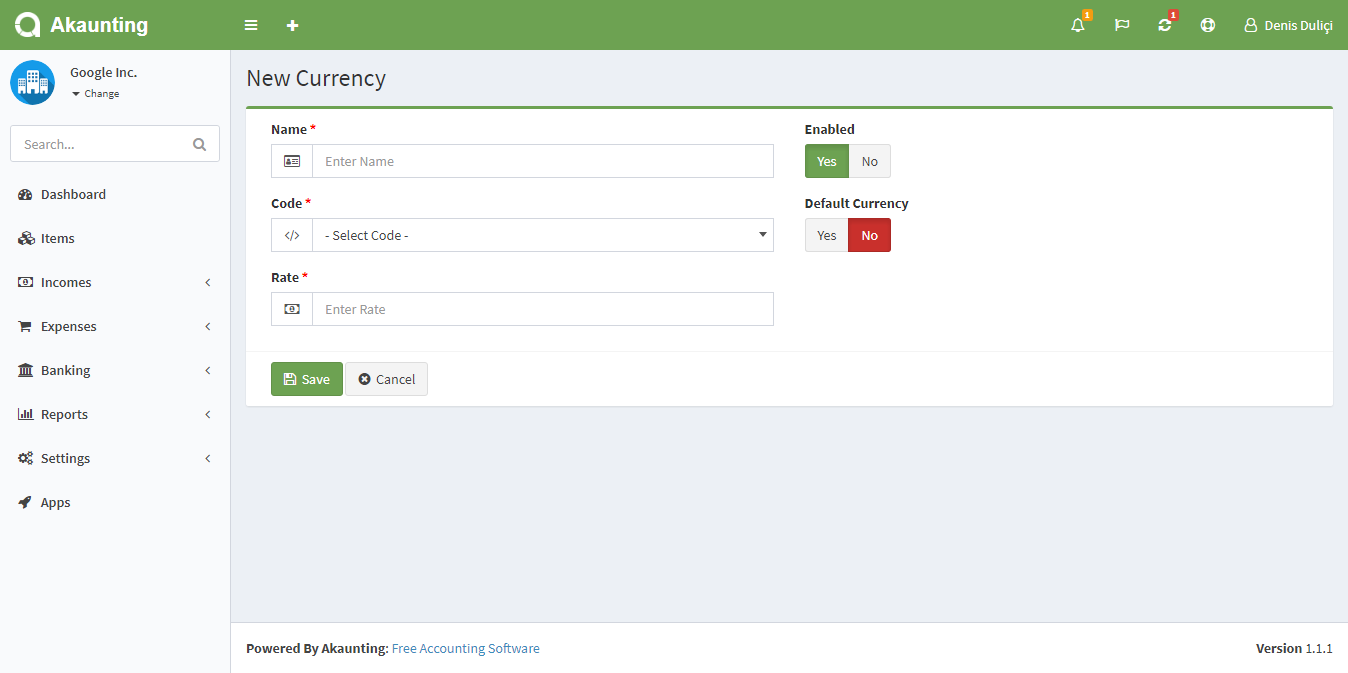
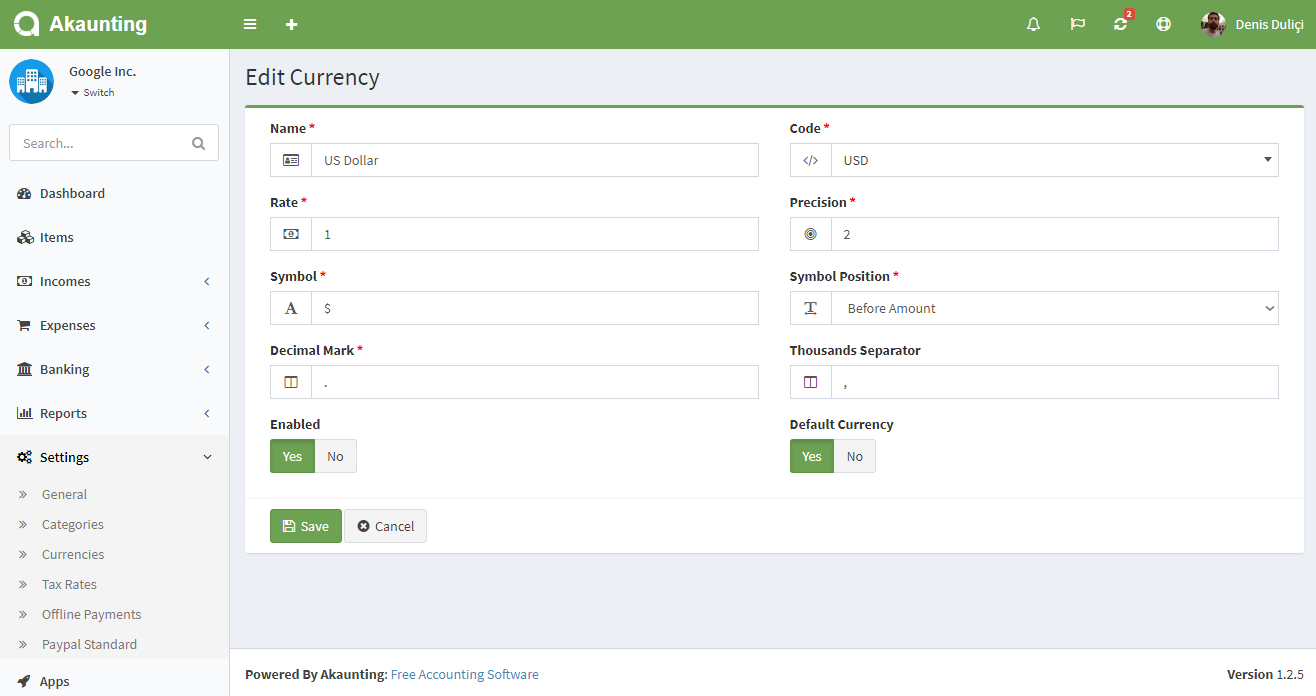
updated currencies

diff --git a/en/user-manual/settings/currencies.md b/en/user-manual/settings/currencies.md
@@ -20,7 +20,12 @@ The following fields are displayed as blank to be filled, some are required and 
 - **Name**
 - **Code:** The ISO code for the currency. Currency codes can be looked up at this [currency converter](http://www.oanda.com/currency/?srccont=rightnav).
 - **Rate:** The rate against the default currency. Default currency rate is always 1.
+- **Precision:** This defines number of fractions to be used.
+- **Symbol:** The symbol of currency.
+- **Symbol Position:** The position symbol.
+- **Decimal Mark:** The mark to be used for decimal part.
+- **Thousands Separator:** The mark to be used for thausands part.
+- **Enabled:** Status of the currency.
 - **Default Currency:** Set as the default currency of company. All reports are shown under the default currency.
-- **Status:** Status of the currency.
 
 ![currencies form](_images/currencies_form.png)

diff --git a/en/user-manual/settings/categories.md b/en/user-manual/settings/categories.md
@@ -22,7 +22,7 @@ The following fields are displayed as blank to be filled, some are required and 
 - **Name**: Category's name.
 - **Type**: Type of category. It will be shown in items, incomes, and expenses page based on type.
 - **Colour**: This colour will be used in dashboard charts.
-- **Status**: Status of the category.
+- **Enabled**: Status of the category.
 
 ![categories form](_images/categories_form.png)
 
